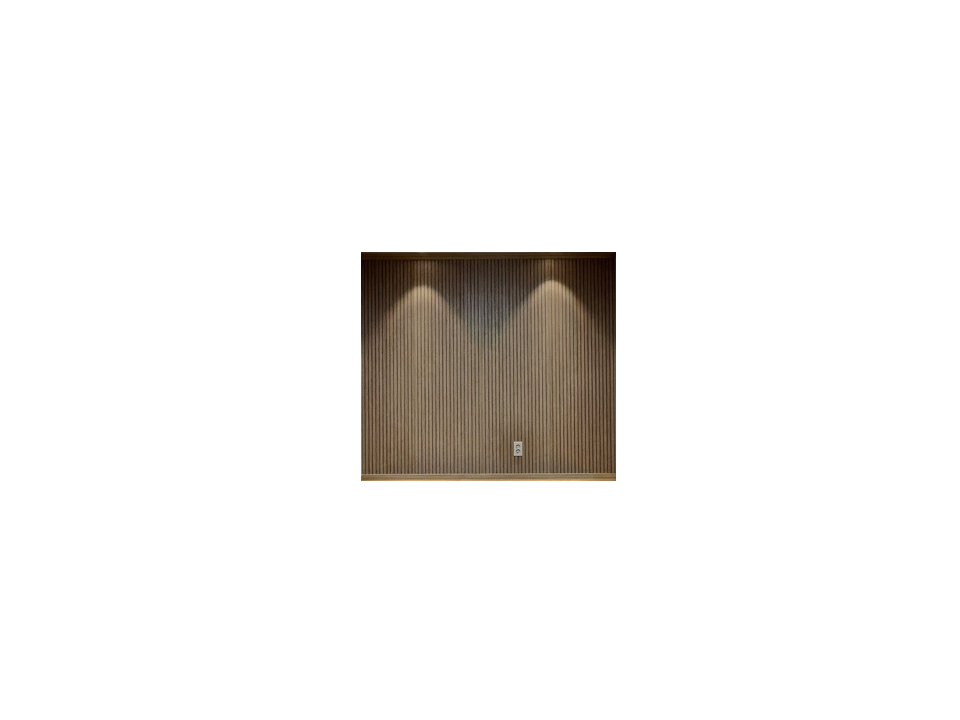
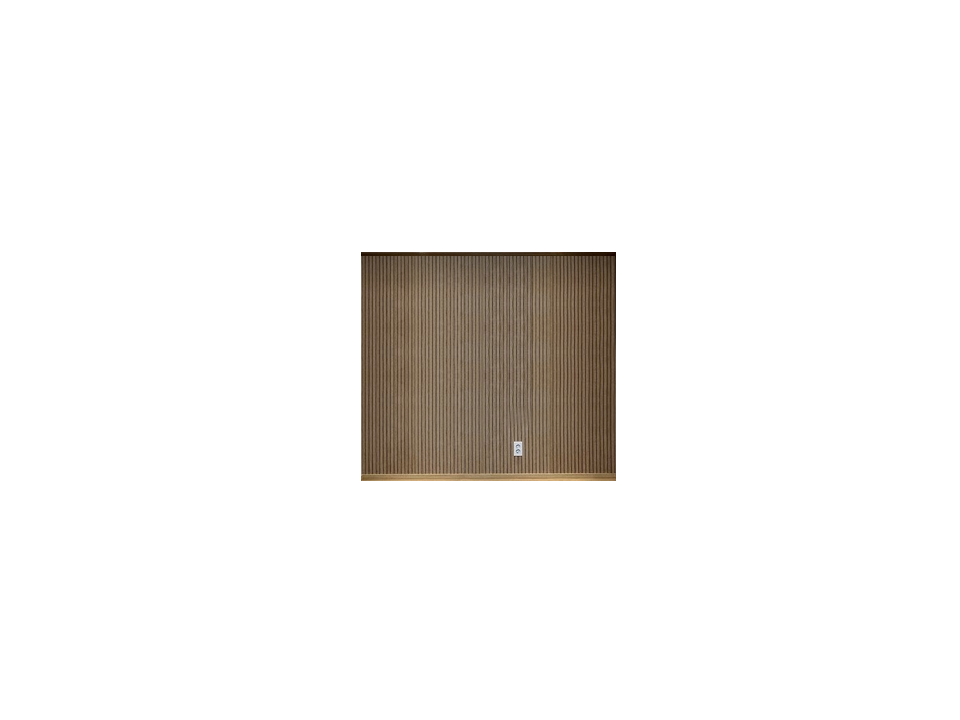
레일등 타공벽 산 모양 불빛 100% 제거(slat-nocob.png v4) 및 시창 상단 프레임 직선화

Changed region(s): [[0.375, 0.3361, 0.6562, 0.5806], [0.5312, 0.6111, 0.5938, 0.6722], [0.4062, 0.6417, 0.4688, 0.6722]]

diff --git a/assets/configurator.js b/assets/configurator.js
@@ -2341,12 +2341,12 @@ function photoHexToRgb(hex){
 const photoWinImgs = {};
 function preloadPhotoWins(){
   const map = {
-    '600x800': 'assets/win-600.png?v=2',
-    '800x800': 'assets/win-800.png?v=2',
-    '1200x800': 'assets/win-1200.png?v=2',
+    '600x800': 'assets/win-600.png?v=3',
+    '800x800': 'assets/win-800.png?v=3',
+    '1200x800': 'assets/win-1200.png?v=3',
     'double1200': 'assets/win-double.png',
     'rail_ceiling': 'assets/ceiling-rail.png?v=4',
-    'slat_nocob': 'assets/slat-nocob.png?v=3'
+    'slat_nocob': 'assets/slat-nocob.png?v=4'
   };
   Object.keys(map).forEach(k => {
     const im = new Image();

diff --git a/configurator.html b/configurator.html
@@ -120,7 +120,7 @@
 
 <div class="toast" id="toast" role="status" aria-live="polite"></div>
 
-<script type="module" src="assets/configurator.js?v=20261122r"></script>
+<script type="module" src="assets/configurator.js?v=20261122s"></script>
 <noscript>
   <style>.panel-body{display:none}.panel-foot{display:none}</style>
   <p style="padding:20px">3D 견적 시뮬레이터는 자바스크립트가 필요합니다. 전화 상담 <a href="tel:01030015906">010-3001-5906</a> 으로 문의해 주세요.</p>
